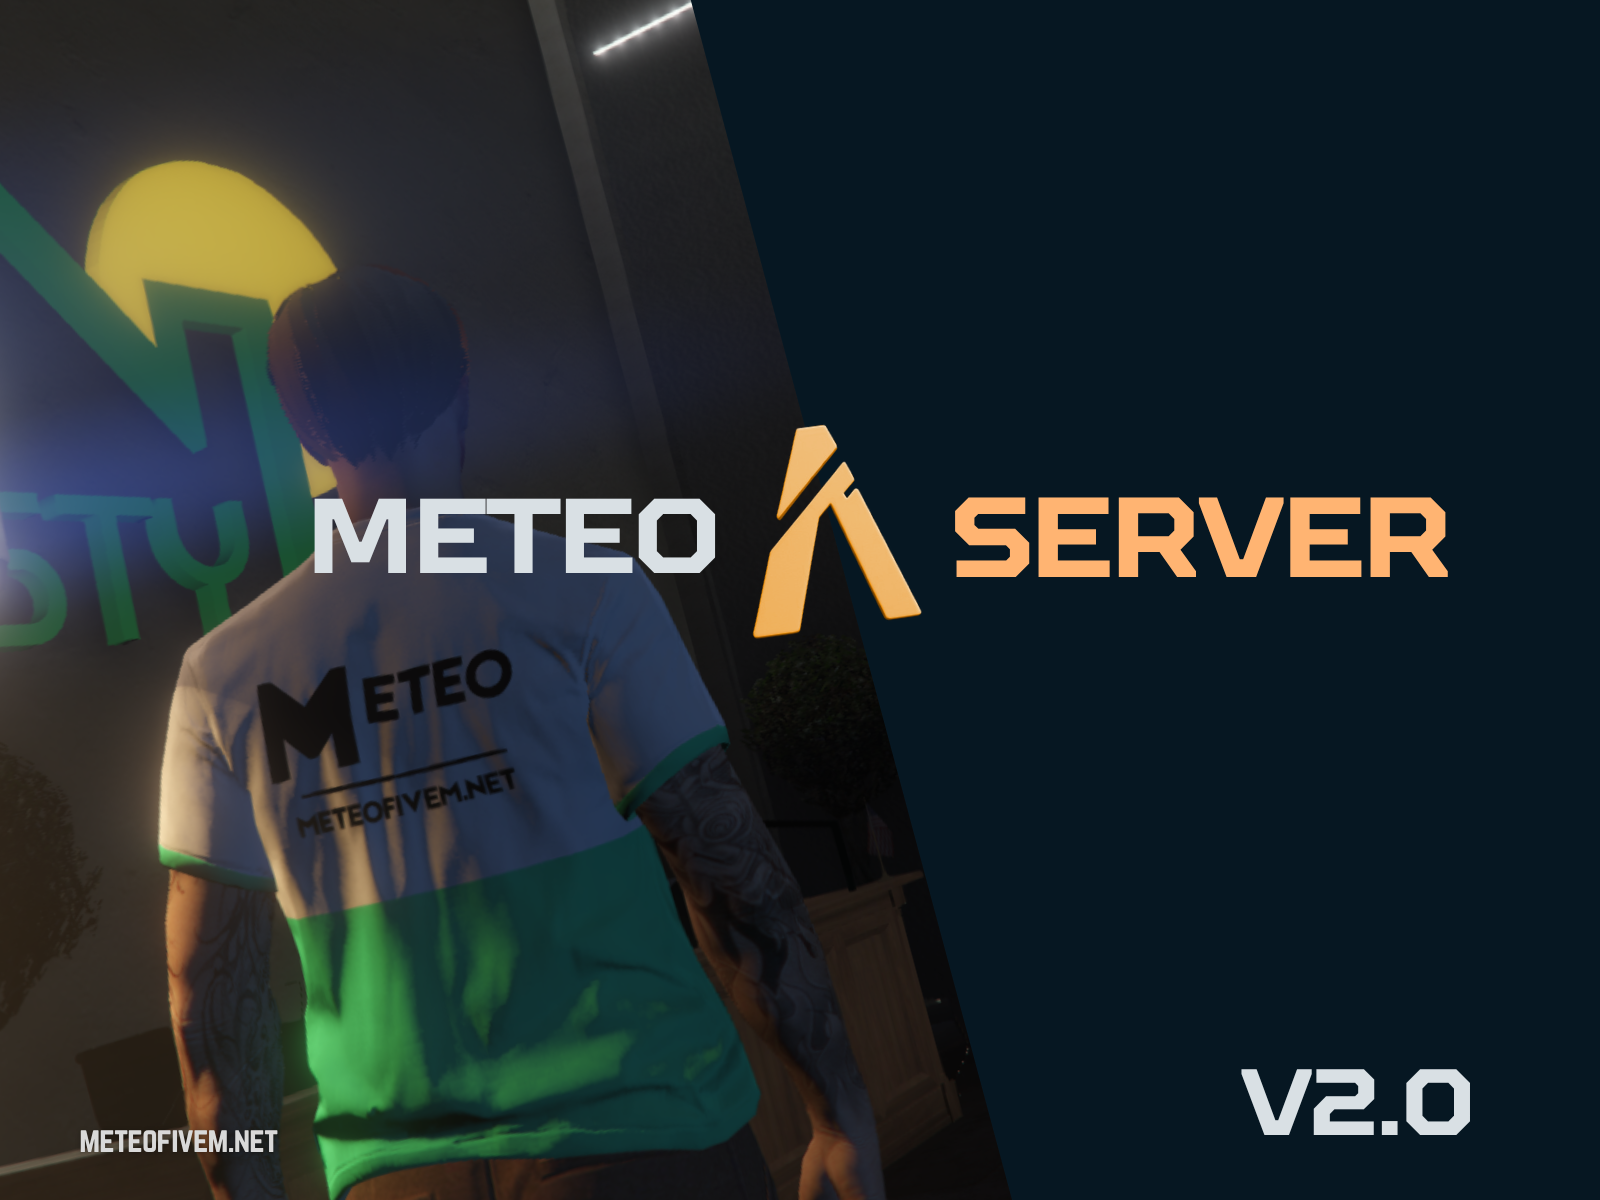
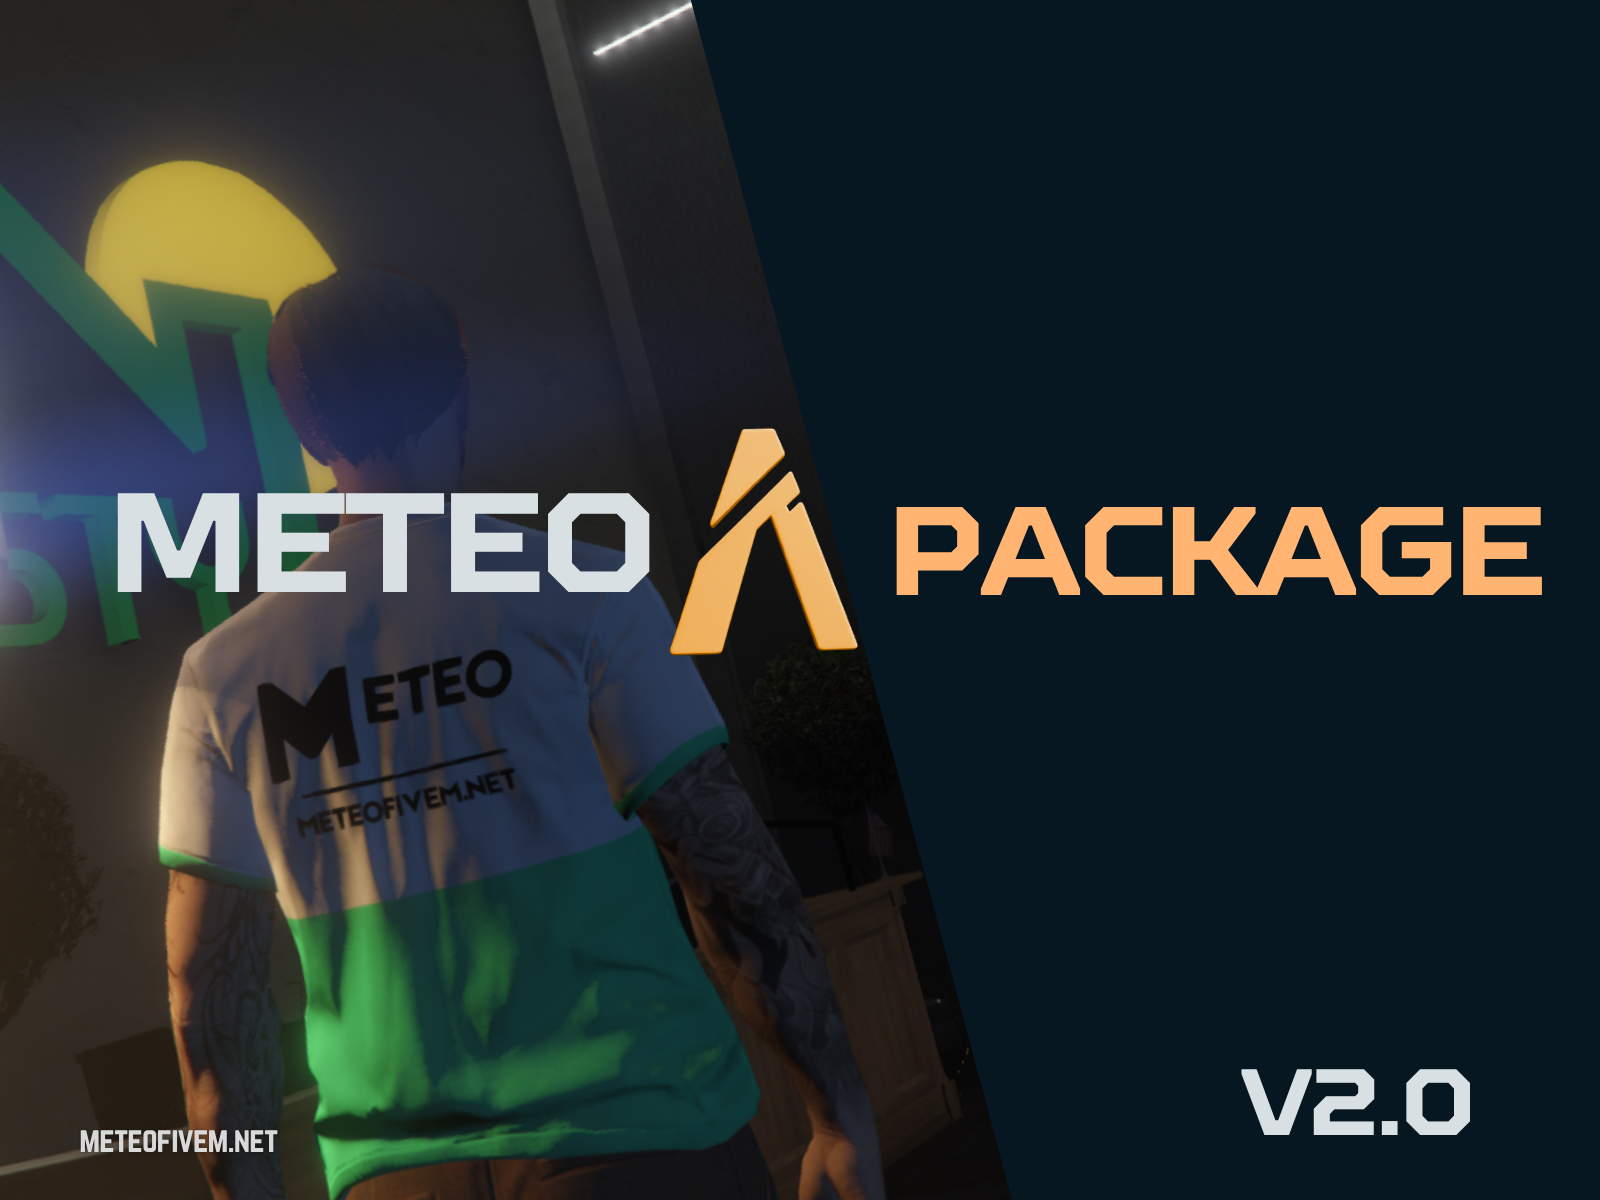
Update cover image and site links

Changed region(s): [[0.0625, 0.3392, 0.9688, 0.555]]

diff --git a/README.md b/README.md
@@ -14,8 +14,8 @@ All scripts are compatible with QBCore and QBox frameworks, built with ox\_lib, 
 
 Follow our early development channel for upcoming scripts and features: <a href="https://www.youtube.com/@meteostudios/videos" target="_blank">Meteo Studios Dev on YouTube</a>
 
-### Visit us at: <a href="https://meteofivem.net/" target="_blank">https://meteofivem.net/</a>
+### Visit us at: <a href="https://meteostudios.net/" target="_blank">https://meteostudios.net/</a>
 
 ## Contact Us
 
-<table data-view="cards"><thead><tr><th></th><th></th><th data-hidden data-card-target data-type="content-ref"></th><th data-hidden data-card-cover data-type="files"></th></tr></thead><tbody><tr><td><a href="https://discord.gg/wxp9gaVrqa">Meteo Discord</a></td><td></td><td><a href="https://discord.gg/wxp9gaVrqa">https://discord.gg/wxp9gaVrqa</a></td><td><a href=".gitbook/assets/meteo_discord.png">meteo_discord.png</a></td></tr><tr><td><a href="https://meteo.tebex.io/">Meteo Tebex</a></td><td></td><td><a href="https://meteo.tebex.io/">https://meteo.tebex.io/</a></td><td><a href=".gitbook/assets/meteo_tebex.png">meteo_tebex.png</a></td></tr><tr><td><a href="https://www.youtube.com/@Meteofivem">Meteo FiveM Youtube</a></td><td></td><td><a href="https://www.youtube.com/@Meteofivem">https://www.youtube.com/@Meteofivem</a></td><td><a href=".gitbook/assets/meteo_youtube.png">meteo_youtube.png</a></td></tr><tr><td><a href="https://meteofivem.net/">Our Website</a></td><td></td><td><a href="https://meteofivem.net/">https://meteofivem.net/</a></td><td><a href=".gitbook/assets/meteo_server_cover.png">meteo_server_cover.png</a></td></tr></tbody></table>
+<table data-view="cards"><thead><tr><th></th><th></th><th data-hidden data-card-target data-type="content-ref"></th><th data-hidden data-card-cover data-type="files"></th></tr></thead><tbody><tr><td><a href="https://discord.gg/wxp9gaVrqa">Meteo Discord</a></td><td></td><td><a href="https://discord.gg/wxp9gaVrqa">https://discord.gg/wxp9gaVrqa</a></td><td><a href=".gitbook/assets/meteo_discord.png">meteo_discord.png</a></td></tr><tr><td><a href="https://meteostudios.net/">Meteo Tebex</a></td><td></td><td><a href="https://meteostudios.net/">https://meteostudios.net/</a></td><td><a href=".gitbook/assets/meteo_tebex.png">meteo_tebex.png</a></td></tr><tr><td><a href="https://www.youtube.com/@Meteofivem">Meteo Studios Youtube</a></td><td></td><td><a href="https://www.youtube.com/@Meteofivem">https://www.youtube.com/@meteostudios</a></td><td><a href=".gitbook/assets/meteo_youtube.png">meteo_youtube.png</a></td></tr><tr><td><a href="https://meteostudios.net/">Our Website</a></td><td></td><td><a href="https://meteofivem.net/">https://meteofivem.net/</a></td><td><a href=".gitbook/assets/meteo_server_cover.png">meteo_server_cover.png</a></td></tr></tbody></table>
